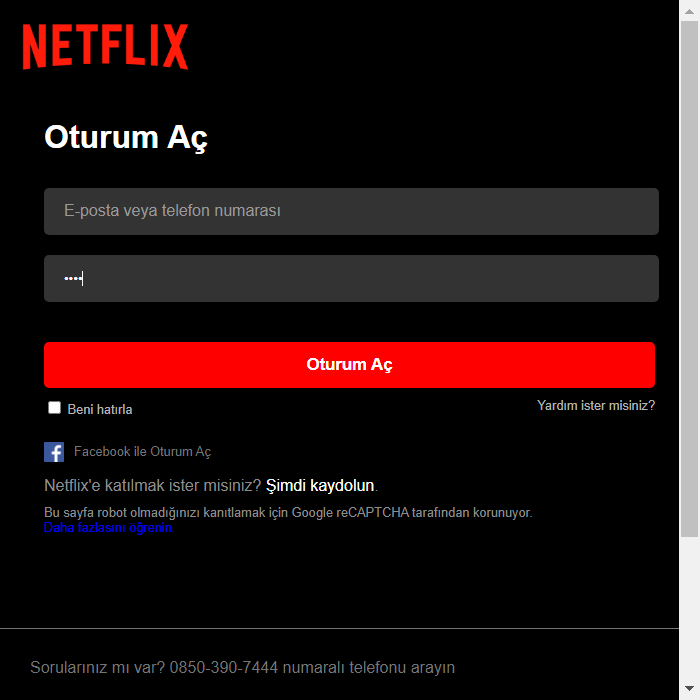
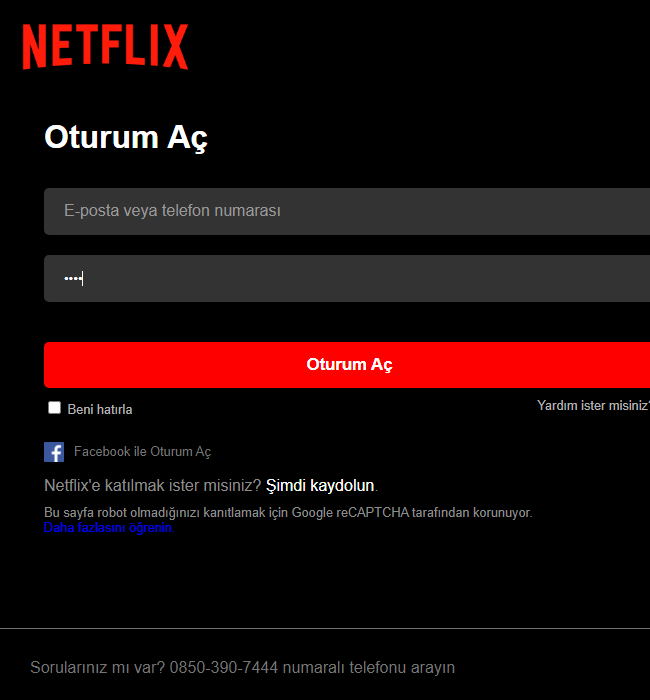
bug fix on case#5

diff --git a/test_cases/test_case_5.py b/test_cases/test_case_5.py
@@ -20,34 +20,42 @@ class TestPasswordMethods(unittest.TestCase):
         options.add_argument('window-size=700x700')
         options.add_argument('--headless')
         options.add_argument('--no-sandbox')
+        options.add_argument('--force-device-scale-factor=1')
         options.set_capability("loggingPrefs", {"resolution": "1024x768"})
         options.add_experimental_option('excludeSwitches', ['enable-logging'])
         self.driver = webdriver.Chrome(
             options=options)
         self.driver.get(
             'file:///' + os.path.dirname(os.getcwd()) + '/index.html')
-        # self.driver.set_window_size(700, 700)
 
     def test(self):
-        print('Case#2')
+        print('Case')
         # look for password box properties
         password_box = self.driver.find_element(By.ID, "inputPassword")
         password_box.send_keys('test')
 
         # takes screenshot of the window
         png = self.driver.get_screenshot_as_png()
-
-        time.sleep(5)
         self.driver.quit()
 
         im = Image.open(BytesIO(png))
+
+        width, height = im.size
+
+        # Setting the points for cropped image
+        left = 0
+        top = 0
+        right = width - 50
+        bottom = height
+
+        im = im.crop((left, top, right, bottom))
+
         # im.save('test_image.png')
         # im.show()
 
-        script_dir = os.path.dirname(__file__)
-        current_file = "\\test_image.png"
-        img = Image.open(
-            script_dir + current_file)
+        # script_dir = os.path.dirname(__file__)
+        current_file = "test_image.png"
+        img = Image.open(current_file)
 
         pic1 = im.convert("L")
         pic2 = img.convert("L")
